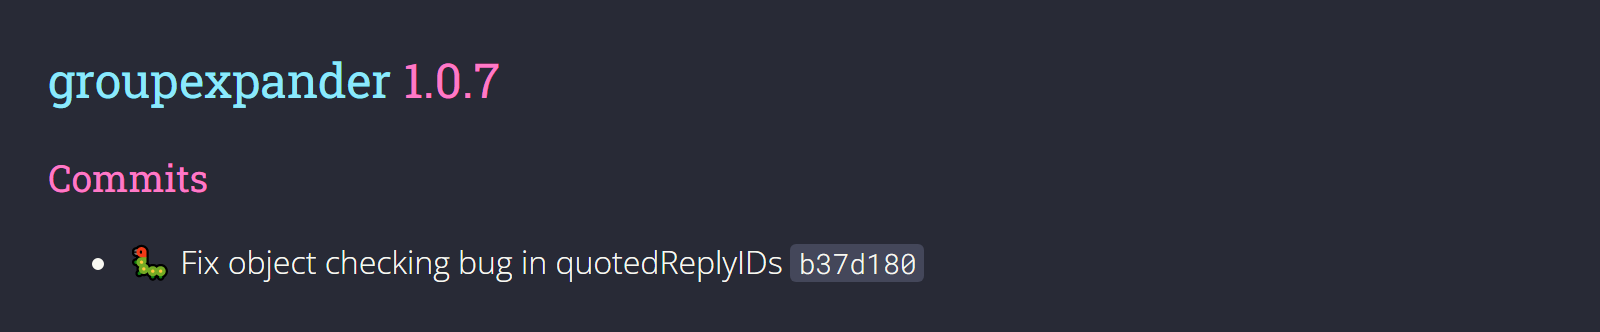
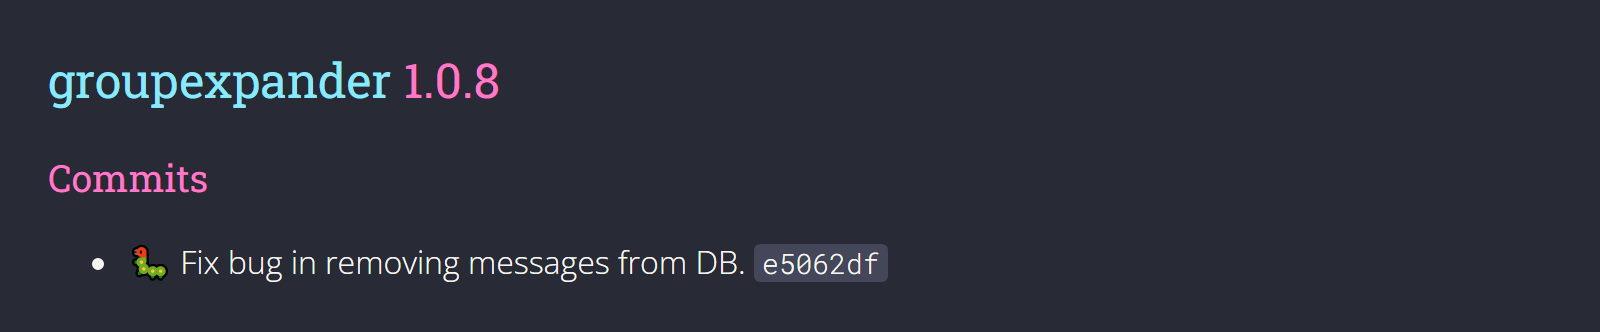
Release 1.0.8

Changed region(s): [[0.125, 0.7229, 0.5938, 0.8735], [0.2812, 0.1807, 0.3125, 0.3012]]

diff --git a/CHANGELOG.md b/CHANGELOG.md
@@ -7,13 +7,24 @@ and this project adheres to [Semantic Versioning](https://semver.org/spec/v2.0.0
 
 Generated by [`auto-changelog`](https://github.com/CookPete/auto-changelog).
 
-## [1.0.7](https://github.com/eyalmichon/group-expander/compare/1.0.6...1.0.7)
+## [1.0.8](https://github.com/eyalmichon/group-expander/compare/1.0.7...1.0.8)
 
 
 
 
 ### Commits
 
+- 🐛 Fix bug in removing messages from DB. [`e5062df`](https://github.com/eyalmichon/group-expander/commit/e5062dfc04ab1db20dac2adebae5e481cd676ff0)
+
+
+## [1.0.7](https://github.com/eyalmichon/group-expander/compare/1.0.6...1.0.7) - 2021-12-09
+
+
+
+
+### Commits
+
+- Release 1.0.7 [`92f93eb`](https://github.com/eyalmichon/group-expander/commit/92f93ebc4cc49acbd572dd730f468cb672384833)
 - 🐛 Fix object checking bug in quotedReplyIDs [`b37d180`](https://github.com/eyalmichon/group-expander/commit/b37d18061f491f37e9baeea01eb6fbc7d9ffca21)
 
 
